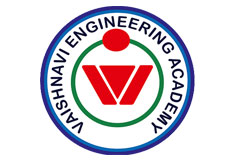
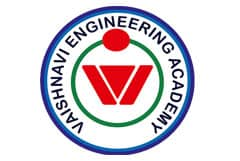
Compression of images for better loading

diff --git a/index.html b/index.html
@@ -478,27 +478,27 @@ College is active in several curricular & non- curricular activities. This helps
  <!-- Photo Grid -->
 <div class="row">
   <div class="column">
-    <img src="images/1.png" style="width:100%"><br>
-		<img src="images/4.png" style="width:100%"><br>	
+    <img src="images/1.jpg" style="width:100%"><br>
+		<img src="images/4.jpg" style="width:100%"><br>	
 		<img src="images/10.jpg" style="width:100%">
   </div>
   <div class="column">
     <img src="images/3.jpg" style="width:100%"><br>
-    <img src="images/2.png" style="width:100%"><br>
+    <img src="images/2.jpg" style="width:100%"><br>
 		<img src="images/6.jpg" style="width:100%">
 		<img src="images/13.jpg" style="width:100%">
 
   </div>
   <div class="column">
     <img src="images/5.jpg" style="width:100%"><br>
-		<img src="images/7.png" style="width:100%">
-		<img src="images/11.png" style="width:100%">
+		<img src="images/7.jpg" style="width:100%">
+		<img src="images/11.jpg" style="width:100%">
 
   </div>
   <div class="column">
-    <img src="images/8.png" style="width:100%"><br>
-		<img src="images/9.png" style="width:100%">
-		<img src="images/12.png" style="width:100%">
+    <img src="images/8.jpg" style="width:100%"><br>
+		<img src="images/9.jpg" style="width:100%">
+		<img src="images/12.jpg" style="width:100%">
 
     </div>
 </div>
@@ -653,7 +653,7 @@ College is active in several curricular & non- curricular activities. This helps
 
 				 <br>
 				 <div class="listteamdiv" align="center">
-				 <img src="images/listteam.PNG" alt="listteam" class="listteam" align="center">
+				 <img src="images/listteam.jpg" alt="listteam" class="listteam" align="center">
 			 </div>
 			</div>
 		</div>

diff --git a/css/style.css b/css/style.css
@@ -25,7 +25,7 @@ a:hover {
 }
 /*--banner start here--*/
 .banner {
-  background: url(../images/bann3.png)no-repeat,top;
+  background: url(../images/bann3.jpg)no-repeat,top;
   min-height:600px;
 	width : fill ;
 	background-position: center center;
